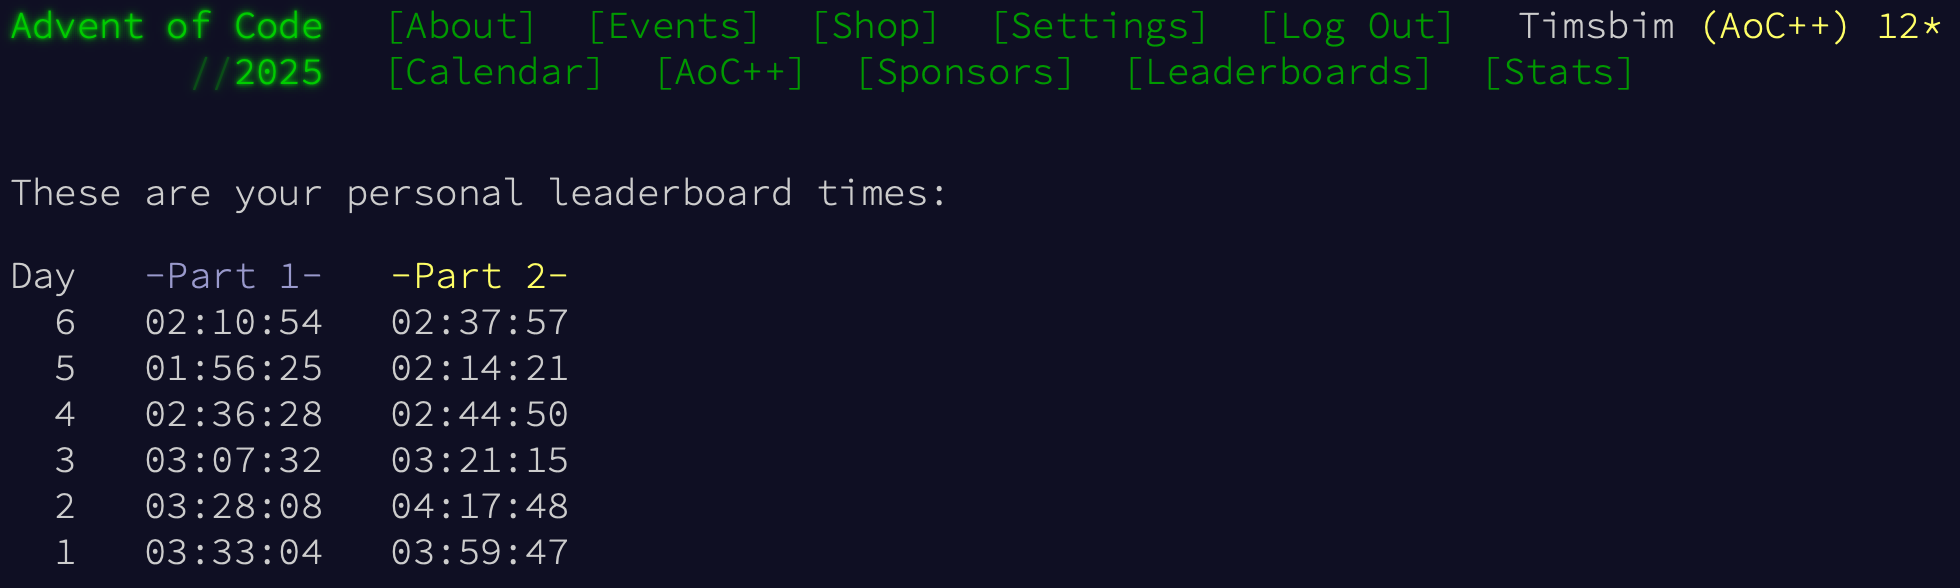
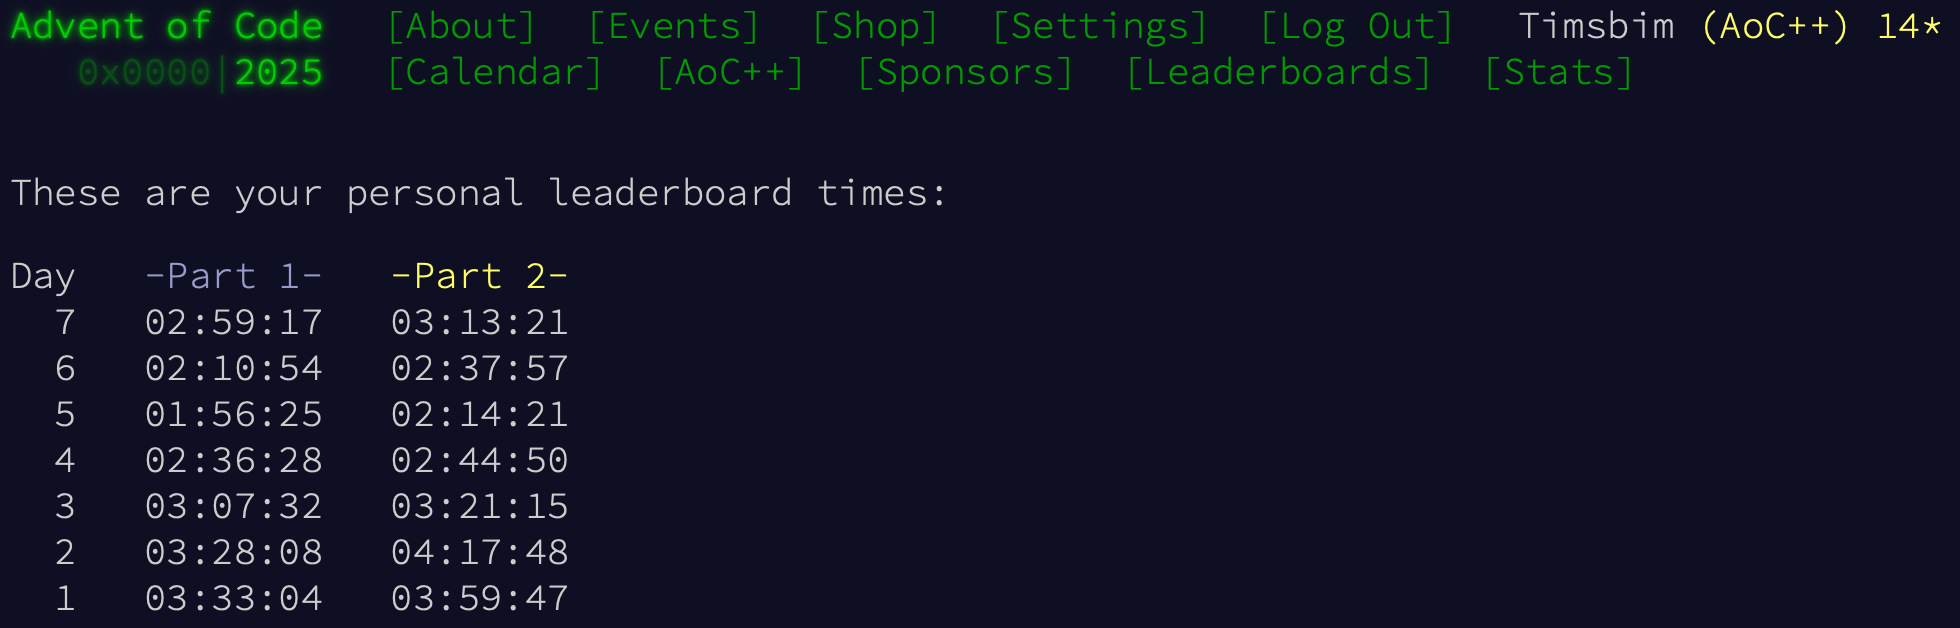
Update

diff --git a/run_all.py b/run_all.py
@@ -104,7 +104,7 @@ def day_2():
             for n in range(start, end + 1)
             if re_rep.match(str(n))
         )
- 
+
 
     print(f"  - part 2:", solution := part_2())
     assert solution == (4174379265 if EXAMPLE else 31898925685)
@@ -269,13 +269,64 @@ def day_6():
     assert solution == (3263827 if EXAMPLE else 12608160008022)
 
 
+def day_7():
+    print("Day 7:")
+
+    file_name = f"2025/input/day_07{'_example' if EXAMPLE else ''}.txt"
+    with open(file_name, "r") as file:
+        MANIFOLD = tuple(file.read().splitlines())
+
+
+    def part_1():
+        splits = 0
+        beams = [MANIFOLD[0].index("S")]
+        for row in MANIFOLD[1:]:
+            beams_new = []
+            for beam in beams:
+                if row[beam] == ".":
+                    if not beams_new or beams_new[-1] != beam:
+                        beams_new.append(beam)
+                else:
+                    splits += 1
+                    beam_new = beam - 1
+                    if not beams_new or beams_new[-1] != beam_new:
+                        beams_new.append(beam_new)
+                    beams_new.append(beam + 1)
+            beams = beams_new
+        return splits
+
+
+    print(f"  - part 1:", solution := part_1())
+    assert solution == (21 if EXAMPLE else 1490)
+
+
+    def part_2():
+        beams = {MANIFOLD[0].index("S"): 1}
+        for row in MANIFOLD[1:]:
+            beams_new = {}
+            for b, count in beams.items():
+                if row[b] == ".":
+                    beams_new[b] = beams_new.get(b, 0) + count
+                else:
+                    b_new = b - 1
+                    beams_new[b_new] = beams_new.get(b_new, 0) + count
+                    beams_new[b + 1] = count
+            beams = beams_new
+        return sum(beams.values())
+
+
+    print(f"  - part 2:", solution := part_2())
+    assert solution == (40 if EXAMPLE else 3806264447357)
+
+
 days = {
     1: day_1,
     2: day_2,
     3: day_3,
     4: day_4,
     5: day_5,
-    6: day_6
+    6: day_6,
+    7: day_7
 }
 
 

diff --git a/day_07.py b/day_07.py
@@ -1,0 +1,49 @@
+print("Day 7")
+EXAMPLE = False
+
+
+file_name = f"2025/input/day_07{'_example' if EXAMPLE else ''}.txt"
+with open(file_name, "r") as file:
+    MANIFOLD = tuple(file.read().splitlines())
+
+
+def part_1():
+    splits = 0
+    beams = [MANIFOLD[0].index("S")]
+    for row in MANIFOLD[1:]:
+        beams_new = []
+        for beam in beams:
+            if row[beam] == ".":
+                if not beams_new or beams_new[-1] != beam:
+                    beams_new.append(beam)
+            else:
+                splits += 1
+                beam_new = beam - 1
+                if not beams_new or beams_new[-1] != beam_new:
+                    beams_new.append(beam_new)
+                beams_new.append(beam + 1)
+        beams = beams_new
+    return splits
+
+
+print("Part 1:", solution := part_1())
+assert solution == (21 if EXAMPLE else 1490)
+
+
+def part_2():
+    beams = {MANIFOLD[0].index("S"): 1}
+    for row in MANIFOLD[1:]:
+        beams_new = {}
+        for b, count in beams.items():
+            if row[b] == ".":
+                beams_new[b] = beams_new.get(b, 0) + count
+            else:
+                b_new = b - 1
+                beams_new[b_new] = beams_new.get(b_new, 0) + count
+                beams_new[b + 1] = count
+        beams = beams_new
+    return sum(beams.values())
+
+
+print("Part 2:", solution := part_2())
+assert solution == (40 if EXAMPLE else 3806264447357)
